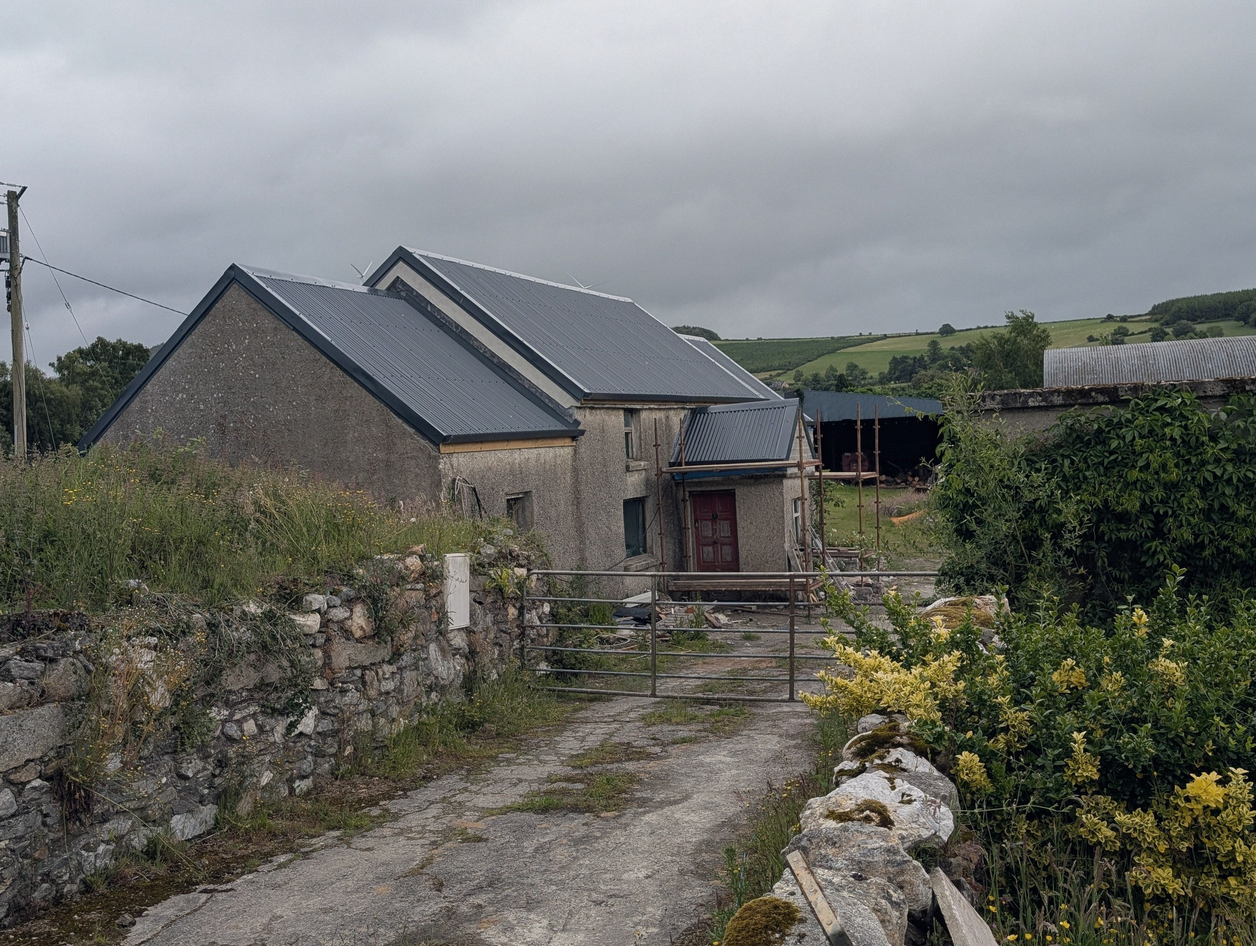
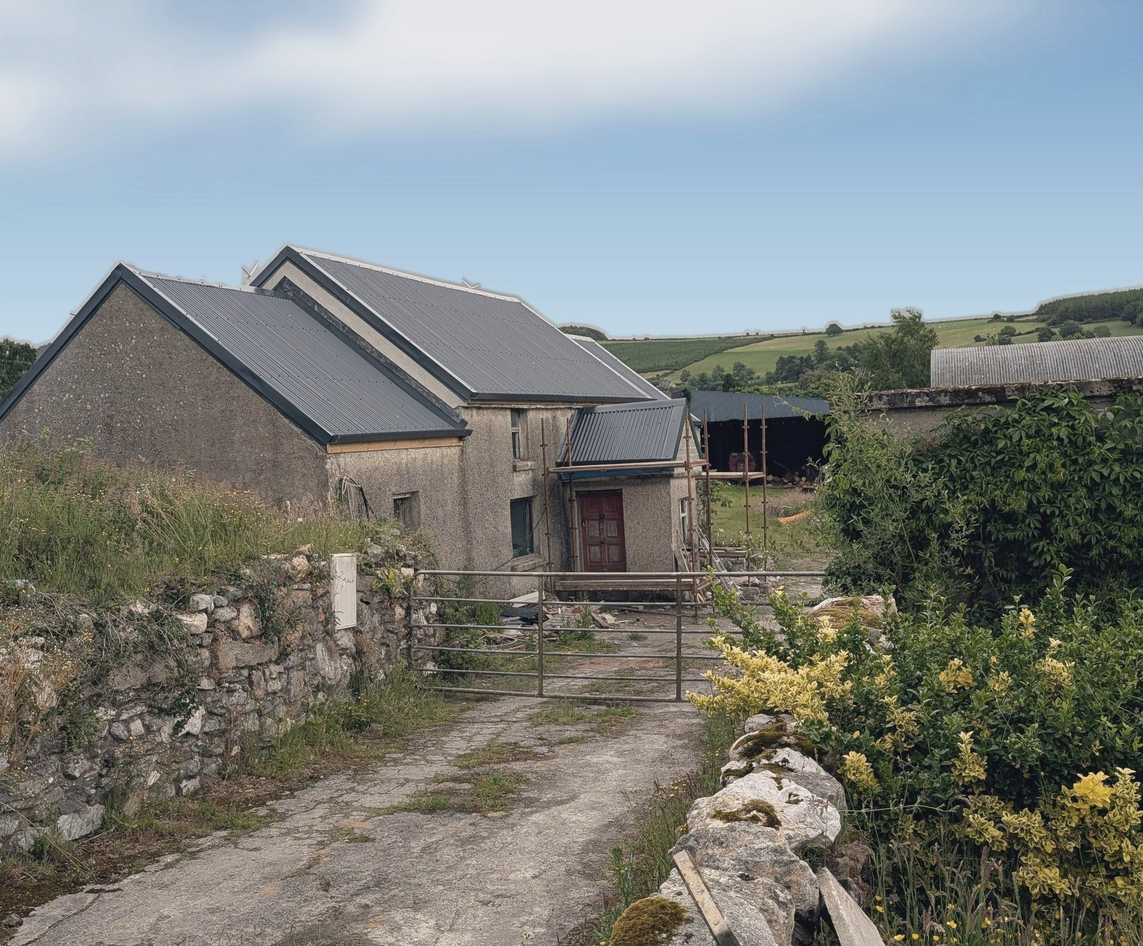
Render tags on Gather, distinct Breathe detail image, blue sky on Gather house photo
Claude-Session: https://claude.ai/code/session_018G6zbMk6mqYst9EPdndi5s

diff --git a/breathe.html b/breathe.html
@@ -120,7 +120,8 @@
         </div>
         <div>
           <div style="aspect-ratio:3/4;overflow:hidden;position:relative;">
-          <img src="assets/images/brook-ivy.jpg" alt="The brook at WilderBliss" style="width:100%;height:100%;object-fit:cover;display:block;object-position:center 25%;">
+          <img src="assets/images/sauna-exterior.jpg" alt="Wood-fired sauna tub beside the cabin" style="width:100%;height:100%;object-fit:cover;display:block;object-position:42% center;">
+          <span class="render-tag">Architectural render</span>
           
         </div>
         </div>

diff --git a/index.html b/index.html
@@ -111,6 +111,7 @@
 
       <!-- GATHER -->
       <div class="brand-panel brand-panel--gather" style="background-image:url('assets/images/gather-terrace.jpg');background-size:cover;background-position:center;">
+        <span class="render-tag" style="z-index:2;">Architectural render</span>
         <a href="gather.html" class="brand-panel__link" aria-label="Explore Gather by WilderBliss"></a>
         <div class="brand-panel__top">
           <span class="brand-panel__status">Opening 2027</span>

diff --git a/gather.html b/gather.html
@@ -41,6 +41,7 @@
 
   <!-- PAGE HERO -->
   <header class="page-hero page-hero--gather">
+    <span class="render-tag" style="z-index:2;">Architectural render</span>
     <img class="page-hero__subbrand-logo" src="assets/logos/gather-neg.png" alt="Gather by WilderBliss">
     <div class="page-hero__content">
       <h1>Food grown close.<br>Cooked simply.<br>Shared slowly.</h1>
